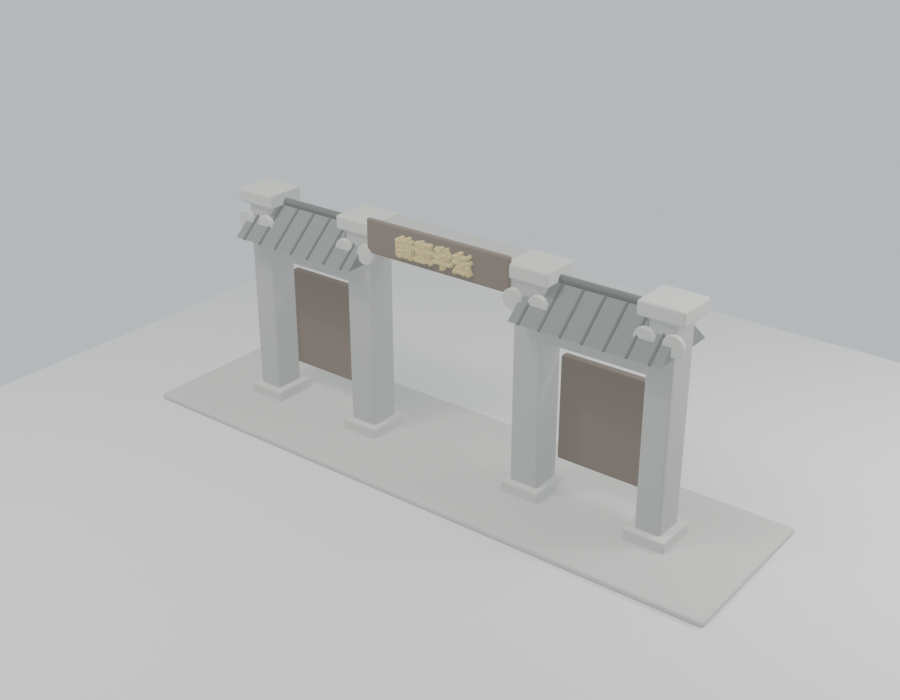
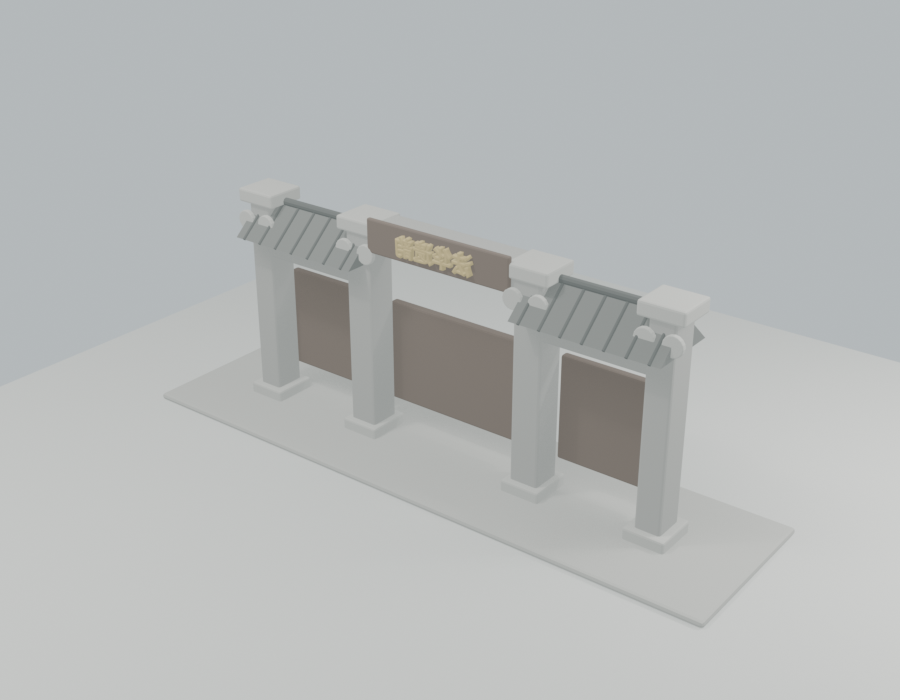
fix: move requested POIs off roads

Changed region(s): [[0.4356, 0.42, 0.5911, 0.63]]

diff --git a/app/scene/xinhua-road-landmarks.tsx b/app/scene/xinhua-road-landmarks.tsx
@@ -64,8 +64,8 @@ function transformedFootprint(
   };
 }
 
-// 旧地标仍使用完整包络；新增园区和微空间按建筑、墙体或水池拆分碰撞，
-// 保留口袋公园路径、社区草坪、园区广场和牌坊中门的可步行性。
+// 旧地标仍使用完整包络；新增园区和微空间按建筑、墙体、水池或纪念展板拆分碰撞，
+// 保留口袋公园路径、社区草坪和园区广场的可步行性。
 export const XINHUA_ROAD_OBSTACLES: MapObstacle[] = XINHUA_ROAD_LANDMARKS.flatMap(
   (landmark) => (landmark.localObstacles ?? [landmark.localBounds]).map(
     (localObstacle) => transformedFootprint(landmark, localObstacle),

diff --git a/scripts/create_requested_poi_models.py b/scripts/create_requested_poi_models.py
@@ -186,46 +186,48 @@ def build_xinhua_pocket_park() -> None:
     blue = base.material("口袋公园展板蓝", "#537f89")
     coral = base.material("口袋公园展板红", "#b76252")
 
-    base.add_box("pocket-ground", (0, 0, 0.08), (4.2, 9.2, 0.16), paving, bevel=0.18)
+    # 设计资料给出的场地长约 22 米、最宽不足 4.2 米。按项目的
+    # 2.7 米/场景单位换算后，宽度应约 1.55，而不是把 4.2 米直接当场景单位。
+    base.add_box("pocket-ground", (0, 0, 0.08), (1.7, 9.2, 0.16), paving, bevel=0.18)
     # 曲折路径以短段串联，中央全程保持可行走。
-    path_centers = ((-0.25, -3.45), (0.25, -1.75), (-0.12, 0), (0.28, 1.8), (-0.18, 3.55))
+    path_centers = ((-0.08, -3.45), (0.08, -1.75), (-0.04, 0), (0.08, 1.8), (-0.06, 3.55))
     for index, (x, y) in enumerate(path_centers):
         base.add_box(
             f"pocket-path-{index}",
             (x, y, 0.17),
-            (2.25, 1.95, 0.08),
+            (1.08, 1.95, 0.08),
             paving,
             bevel=0.42,
             rotation=(0, 0, (-0.07 if index % 2 else 0.07)),
         )
-    for side, x in (("left", -1.95), ("right", 1.95)):
+    for side, x in (("left", -0.78), ("right", 0.78)):
         for index in range(6):
             y = -3.75 + index * 1.5
             height = 2.45 + 0.2 * math.sin(index * 1.3)
             base.add_box(
                 f"pocket-mirror-{side}-{index}",
                 (x, y, height / 2),
-                (0.16, 1.35, height),
+                (0.1, 1.35, height),
                 mirror,
                 bevel=0.035,
                 rotation=(0, 0, (0.035 if (index + (side == "left")) % 2 else -0.035)),
             )
     # 耐候钢入口框顶边略有起伏，形成狭长空间的明确入口。
-    for x in (-1.92, 1.92):
-        base.add_box(f"pocket-entry-post-{x}", (x, -4.5, 1.7), (0.24, 0.28, 3.4), steel, bevel=0.05)
-    base.add_beam("pocket-entry-wave-a", (-1.92, -4.5, 3.35), (0, -4.5, 3.72), 0.22, steel)
-    base.add_beam("pocket-entry-wave-b", (0, -4.5, 3.72), (1.92, -4.5, 3.42), 0.22, steel)
-    base.add_bench("pocket-bench", (0.75, -3.45), 1.55, wood, dark, rotation_z=0.08)
+    for x in (-0.76, 0.76):
+        base.add_box(f"pocket-entry-post-{x}", (x, -4.5, 1.7), (0.16, 0.28, 3.4), steel, bevel=0.05)
+    base.add_beam("pocket-entry-wave-a", (-0.76, -4.5, 3.35), (0, -4.5, 3.72), 0.13, steel)
+    base.add_beam("pocket-entry-wave-b", (0, -4.5, 3.72), (0.76, -4.5, 3.42), 0.13, steel)
+    base.add_bench("pocket-bench", (0.16, -3.45), 0.72, wood, dark, rotation_z=0.08)
     colors = (yellow, blue, coral, blue)
     for index, y in enumerate((-2.0, -0.45, 1.1, 2.65)):
-        base.add_cylinder(f"pocket-board-pole-{index}", (-1.45, y, 1.0), 0.04, 1.85, dark, vertices=10)
-        base.add_box(f"pocket-board-{index}", (-1.38, y, 1.55), (0.14, 0.92, 1.02), colors[index], bevel=0.08)
+        base.add_cylinder(f"pocket-board-pole-{index}", (-0.5, y, 1.0), 0.035, 1.85, dark, vertices=10)
+        base.add_box(f"pocket-board-{index}", (-0.45, y, 1.55), (0.1, 0.72, 0.92), colors[index], bevel=0.06)
     for index, y in enumerate((-2.85, -1.1, 0.65, 2.3, 3.75)):
         side = -1 if index % 2 == 0 else 1
-        x = side * 1.35
-        base.add_icosphere(f"pocket-grass-green-{index}", (x, y, 0.58), (0.65, 0.72, 0.58), green, subdivisions=1)
-        base.add_icosphere(f"pocket-grass-pink-{index}", (x * 0.93, y + 0.18, 0.92), (0.5, 0.58, 0.65), pink, subdivisions=1)
-    base.add_paving_grid("pocket-paving-detail", (0, 0), 3.8, 8.7, 0.215, paving_dark, columns=4, rows=12)
+        x = side * 0.56
+        base.add_icosphere(f"pocket-grass-green-{index}", (x, y, 0.5), (0.28, 0.56, 0.5), green, subdivisions=1)
+        base.add_icosphere(f"pocket-grass-pink-{index}", (x * 0.93, y + 0.18, 0.78), (0.22, 0.44, 0.52), pink, subdivisions=1)
+    base.add_paving_grid("pocket-paving-detail", (0, 0), 1.5, 8.7, 0.215, paving_dark, columns=2, rows=12)
 
 
 def build_xinhua_community_center() -> None:
@@ -384,6 +386,16 @@ def build_fahua_heritage() -> None:
     base.add_box("heritage-main-beam", (0, 0, 5.25), (5.35, 0.82, 0.72), stone, bevel=0.06)
     base.add_box("heritage-main-plaque", (0, -0.47, 5.35), (3.9, 0.12, 0.82), plaque, bevel=0.04)
     base.add_text_label("heritage-title", "法华遗韵", (0, -0.58, 5.35), 0.55, 0.055, gold, bevel=0.018)
+    # 参考照片中央不是可穿行门洞，而是一块大幅历史说明板。
+    base.add_box("heritage-center-panel", (0, 0.48, 2.15), (4.1, 0.22, 2.55), plaque, bevel=0.05)
+    for row in range(7):
+        base.add_box(
+            f"heritage-center-line-{row}",
+            (0, 0.61, 1.35 + row * 0.28),
+            (3.15 - row * 0.08, 0.04, 0.045),
+            gold,
+            bevel=0.01,
+        )
     for side, x in (("left", -4.0), ("right", 4.0)):
         base.add_box(f"heritage-side-beam-{side}", (x, 0, 4.25), (3.0, 0.7, 0.55), stone, bevel=0.05)
         base.add_gable_roof(
@@ -462,11 +474,11 @@ def build_fics_xinhua_365() -> None:
     warm = base.material("FICS标识暖白", "#f2dfad", emission_strength=0.38)
     steel = base.material("FICS黑钢", "#2c3433", roughness=0.4, metallic=0.46)
 
-    campus_ground = base.add_box("fics-campus-ground", (0, 0, 0.05), (48, 45, 0.1), paving, bevel=0.18)
-    # 合并时让场地基座成为活动对象，确保 GLB 节点原点留在园区中心，
-    # 避免复用新华公馆后的偏移被保留为隐藏节点变换。
-    base.ASSET_OBJECTS.remove(campus_ground)
-    base.ASSET_OBJECTS.insert(0, campus_ground)
+    # 不再用一整块 48×45 的铺地盖住 OSM 车道。只保留一个极小的原点垫片，
+    # 让园区建筑、广场和道路各自保持独立，同时稳定 GLB 节点原点。
+    origin_pad = base.add_box("fics-origin-pad", (0, 0, 0.02), (0.2, 0.2, 0.04), paving, bevel=0.02)
+    base.ASSET_OBJECTS.remove(origin_pad)
+    base.ASSET_OBJECTS.insert(0, origin_pad)
     # 西北白色主楼：大尺度白框、深玻璃和屋顶标识。
     base.add_box("fics-main", (-13.5, 8.2, 6.2), (15.5, 11.0, 12.4), white, bevel=0.11)
     base.add_box("fics-main-glass", (-13.5, 2.62, 6.2), (14.4, 0.18, 11.4), glass)

diff --git a/docs/research/requested-poi-model-brief.md b/docs/research/requested-poi-model-brief.md
@@ -43,7 +43,7 @@
 - 地址：新华路 359 号新华社区青年中心旁。
 - 建成时间：2020 年 9 月 29 日。
 - 设计：水石设计；场地约 106 平方米，长约 22 米，最宽不足 4.2 米。
-- 位置证据：地址与设计方资料明确；OSM 无独立条目，按 345 弄入口、既有 365 弄落点和新华路中心线推定为场景坐标 `[-56, 64]`，快照明确标记 `inferred: true`。
+- 位置证据：地址与设计方资料明确；OSM 无独立条目，按 345 弄入口、既有 365 弄落点和新华路中心线推定为场景坐标 `[-56.9, 66.3]`，快照明确标记 `inferred: true`。
 - 主要参考：
   - 水石设计授权发布资料：<https://mooool.com/pocket-park-on-xinhua-road-shanghai-byshuishi.html>
   - 小红书路线笔记：<https://www.xiaohongshu.com/explore/6839b9ee000000001200584c>
@@ -51,7 +51,7 @@
   - `docs/research/assets/requested-poi-references/xinhua-pocket-park-canonical.jpg`
   - `docs/research/assets/requested-poi-references/xinhua-pocket-park-signage.jpg`
 - 典型对照图：`xinhua-pocket-park-canonical.jpg`，从入口向弄堂深处观察。
-- 轮廓与空间：狭长弄堂型花园，蜿蜒浅色洗石路径贯穿，两侧镜面墙把空间视觉放大。
+- 轮廓与空间：狭长弄堂型花园，蜿蜒浅色洗石路径贯穿，两侧镜面墙把空间视觉放大。场地“最宽不足 4.2 米”按 `2.7 米/场景单位` 换算为约 `1.55` 场景单位，不能把 4.2 米直接当场景单位。
 - 材料：镜面不锈钢、耐候钢、浅灰洗石、深色木坐凳、粉紫和深绿植物。
 - 专属识别点：
   1. 两侧连续折面镜墙；
@@ -93,7 +93,7 @@
 
 - 地址：法华镇路 525 号。
 - 建筑事实：约 5428.17 平方米、六层主楼和四进庭院；原法华寺旧址，保留“缘石”和两株古银杏。
-- 位置证据：德必官网地址明确；OSM 缺少 525 号独立条目。先以道路锚点 `[-91, -13]` 建立研究快照，再结合交大法华校区边界和道路北侧建筑群，把资产中心退到 `[-110, -30]`，避免占用法华镇路；两步均标记为推定。
+- 位置证据：德必官网地址明确；OSM 缺少 525 号独立条目。先以道路锚点 `[-91, -13]` 建立研究快照，再结合道路南侧的 OSM 建筑群与法华镇路 525 号院落尺度，把资产中心退到 `[-102, -49]`；两步均标记为推定。该位置的完整场地包络已退出法华镇路和定西路路面。
 - 主要参考：
   - 德必官网：<https://www.dobechina.com/projects/mandr/77>
   - 法华镇历史资料：<https://www.thepaper.cn/newsDetail_forward_1527205>
@@ -118,26 +118,26 @@
 ## 法华遗韵
 
 - 地址：法华镇路与香花桥路交会处。
-- 位置证据：澎湃转载上海长宁资料明确为“法华镇路香花桥路口”；地图中两条 OSM 道路中心线交点为场景坐标 `[-70.17, -0.57]`。资产中心沿北侧人行界面退到 `[-75, -7]`，避免牌坊横压车行道。
+- 位置证据：澎湃转载上海长宁资料明确为“法华镇路香花桥路口”；地图中两条 OSM 道路中心线交点为场景坐标 `[-70.17, -0.57]`。参考照片显示它是紧邻建筑界面的三间纪念展板，不是横跨道路的通行牌坊；资产缩小到约 10 米宽并沿法华镇路方向放在交叉口东南侧人行界面，中心为 `[-63.4, -2.6]`。
 - 主要参考：
   - <https://www.thepaper.cn/newsDetail_forward_11011983>
   - <https://www.thepaper.cn/newsDetail_forward_1527205>
 - 本地照片：`docs/research/assets/requested-poi-references/fahua-heritage-arch.jpg`
 - 典型对照图：`fahua-heritage-arch.jpg`，正立面。
-- 轮廓与材料：灰石三间纪念牌坊，中间横额、两侧短瓦檐，中央和两侧嵌深褐说明牌。
+- 轮廓与材料：灰石三间纪念构筑物，中间横额、两侧短瓦檐，中央和两侧嵌深褐说明牌。
 - 专属识别点：
   1. 中央四柱三间石构；
   2. “法华遗韵”金字横额；
   3. 两侧灰瓦短檐；
   4. 深褐历史说明板；
   5. 柱头简化云纹。
-- 碰撞：仅四根石柱和两侧展板阻挡，中门保持可穿行。
+- 碰撞：四根石柱、中央说明板和两侧展板均阻挡；它不是可穿行门洞。
 
 ## FICS 新华 365
 
 - 地址：新华路 365 弄。
 - 建筑事实：东华大学科技园改造项目，前身包含德式花园洋房、上海搪瓷研究所和学生宿舍；园区包含多栋不同年代建筑，2023 年底完成改造。
-- 位置证据：政府资料和现有新华公馆落点明确；OSM 缺少园区独立条目。研究中心先按 365 弄和 345 弄路网估为 `[-75, 82]`，集成时采用园区枢轴 `[-74.2, 70.6]`，使完整模型中的新华公馆仍落在原验证坐标 `[-63, 75]`；推定状态不变。
+- 位置证据：政府资料和现有新华公馆落点明确；OSM 缺少园区独立条目。研究中心先按 365 弄和 345 弄路网估为 `[-75, 82]`；整张地面路网复核后，园区枢轴调整到 `[-76.1, 75.2]`，让完整建筑包络退出新华路路面，推定状态不变。
 - 主要参考：
   - 上海长宁开工资料：<https://www.shcn.gov.cn/col8288/20230426/1235290.html>
   - 建成后实景报道：<https://sghexport.shobserver.com/html/baijiahao/2024/07/02/1368152.html>
@@ -158,7 +158,7 @@
   4. 红色艺术涂层立面；
   5. 新华公馆红砖拱窗与露台；
   6. 围绕中央广场组织的多年代建筑群。
-- 场地环境：开放广场、条带铺装、树阵、露台和园区主入口均可步行。
+- 场地环境：开放广场、条带铺装、树阵、露台和园区主入口均可步行；不再使用覆盖整个园区的单块铺地，以免遮盖地图道路。
 - 省略：具体商户招牌、临时活动装置和车辆。
 - 碰撞：按各栋建筑分别生成，不使用覆盖整个园区的单一碰撞盒；广场和建筑间通道必须连通。
 